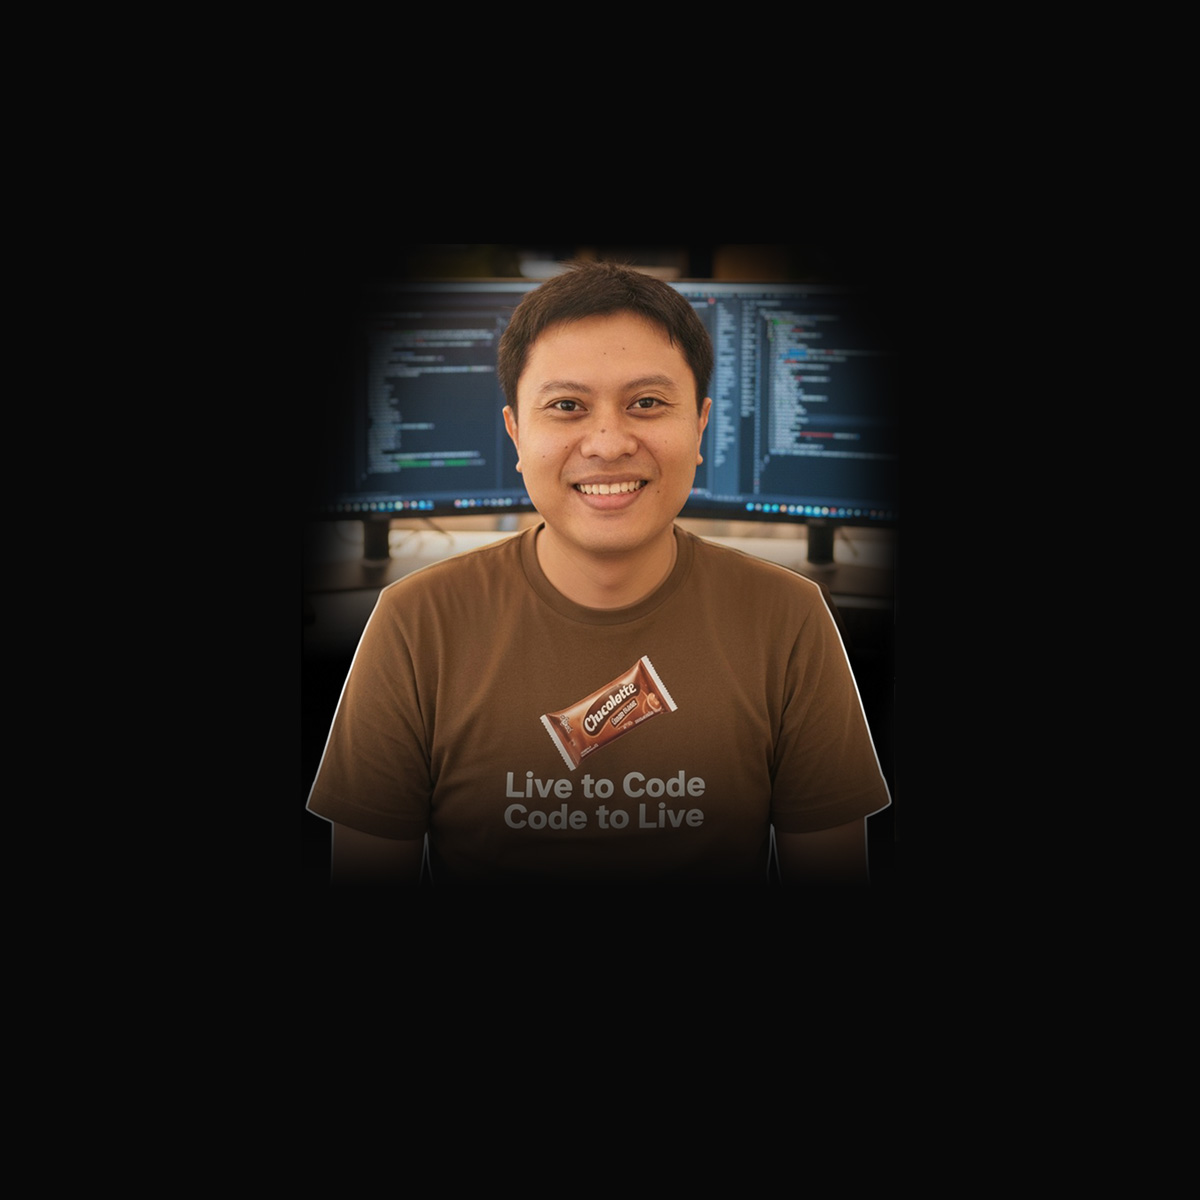
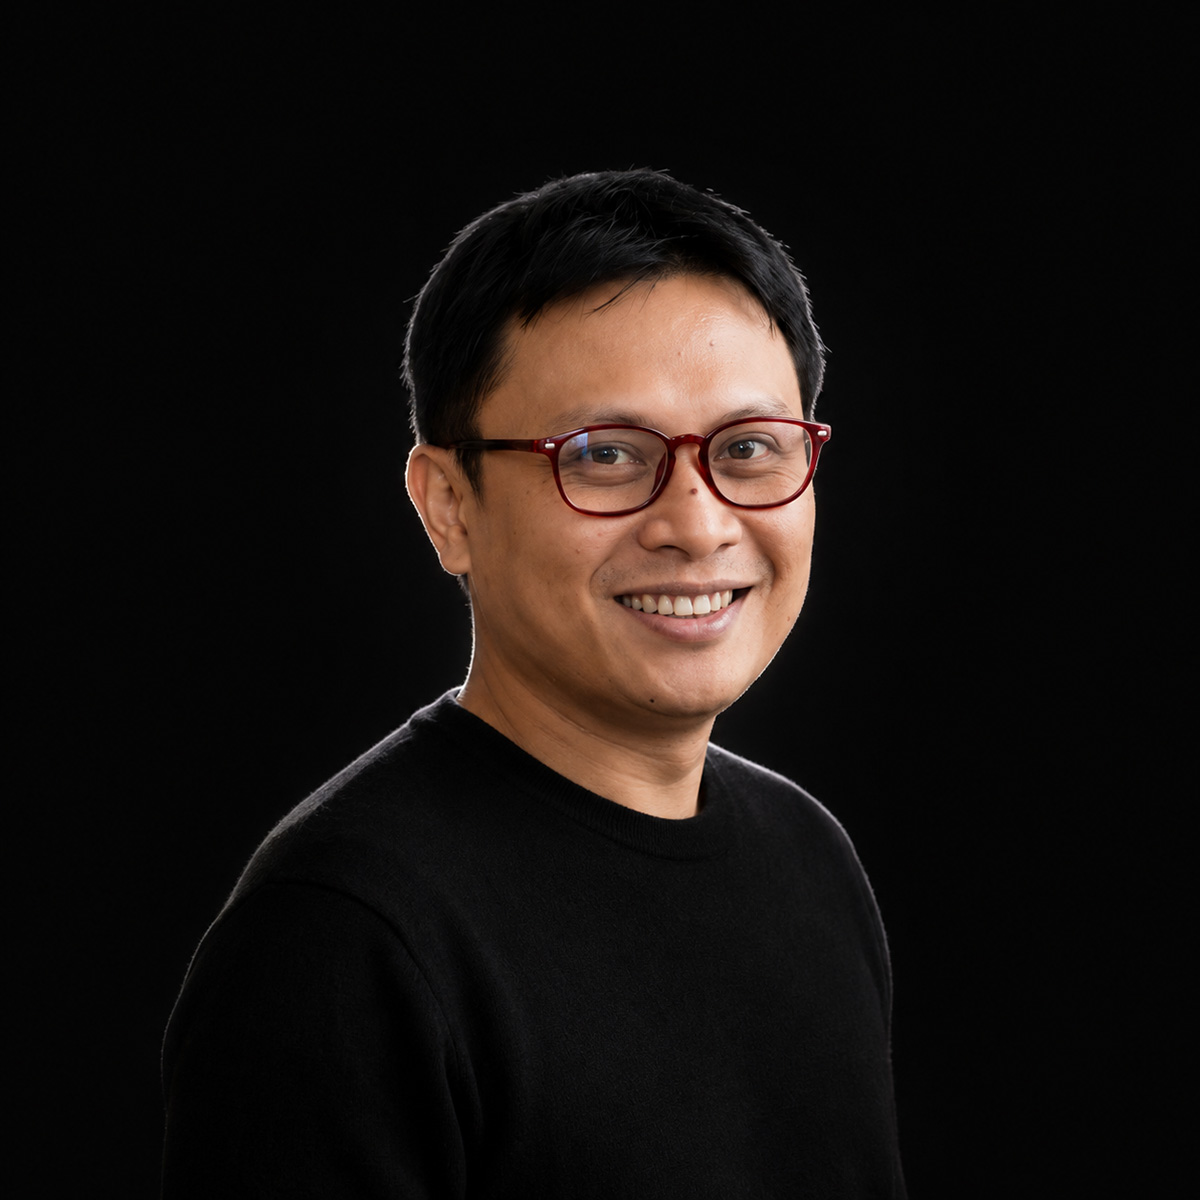
update apperance

Changed region(s): [[0.2158, 0.1542, 0.74, 0.7708], [0.4625, 0.1233, 0.555, 0.1542], [0.185, 0.7092, 0.2158, 0.7708]]

diff --git a/assets/css/style.css b/assets/css/style.css
@@ -34,7 +34,9 @@ body::before {
     background-attachment: fixed;
   }
   #header {
-    background-position: top left;
+    /* background-position: top left; */
+    background-position: 10% 50%;
+    background-size: 30%;
   }
   #header .container {
     padding-left: 30rem;
